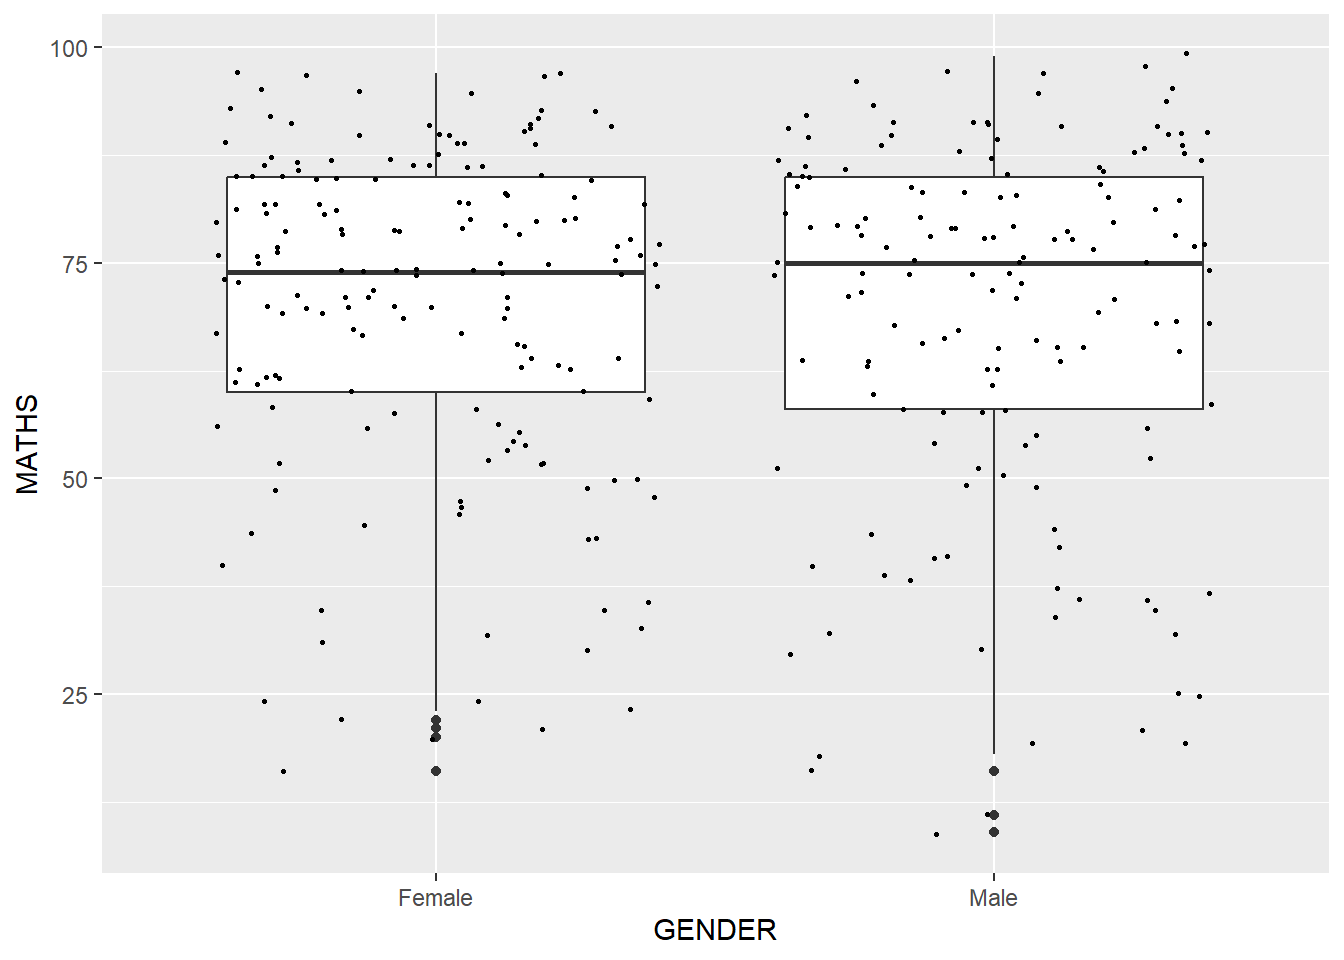
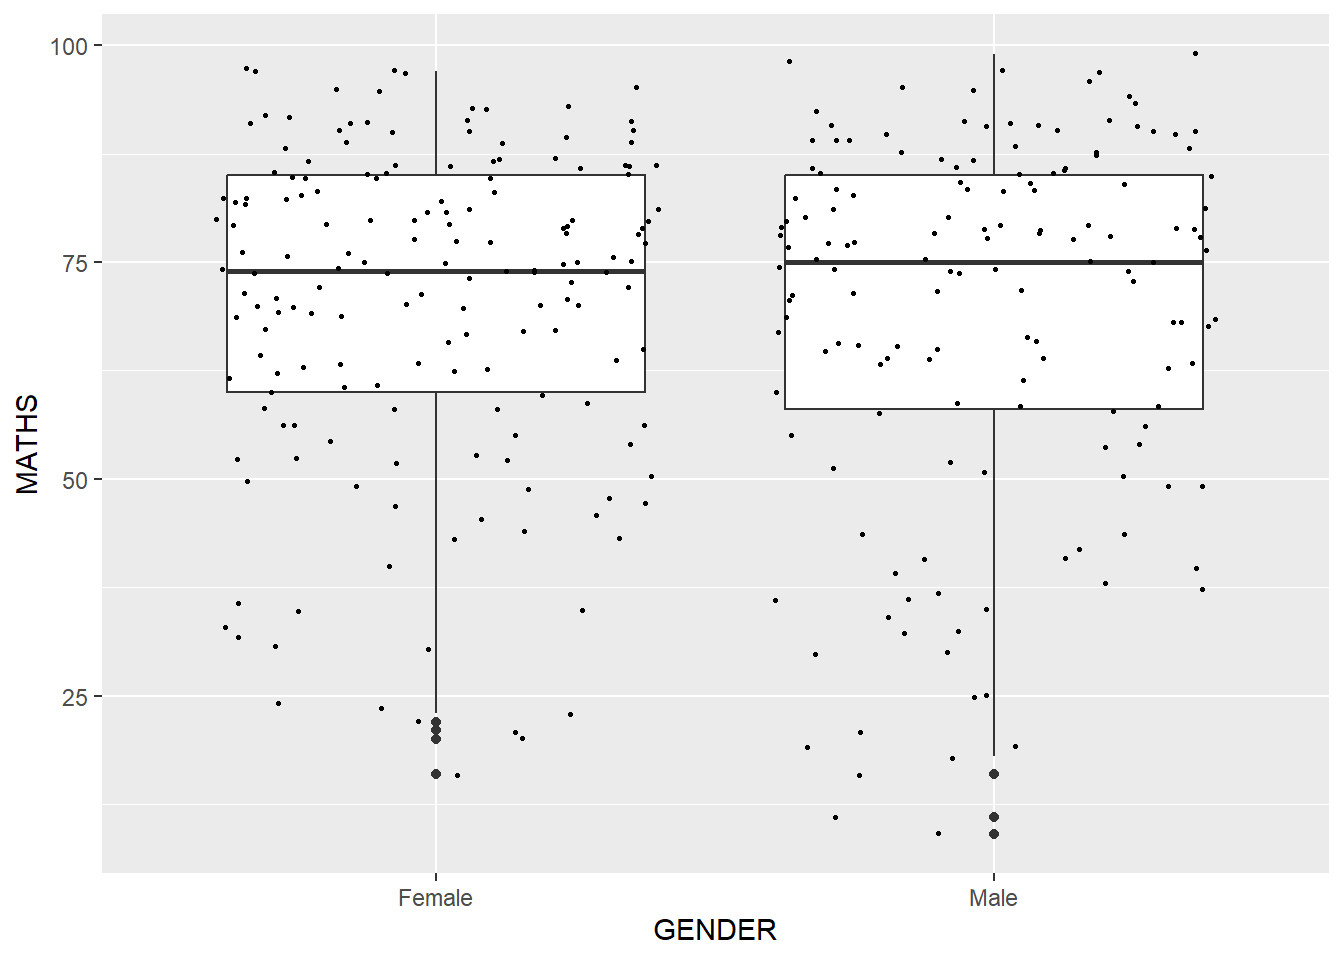
Commit 2 HO 2

diff --git a/_site/Hands-on_Ex/Hands-on_Ex02/Hands-on_Ex02.html b/_site/Hands-on_Ex/Hands-on_Ex02/Hands-on_Ex02.html
@@ -383,6 +383,100 @@ font family not found in Windows font database</code></pre>
 <span id="cb16-7"><a href="#cb16-7" aria-hidden="true" tabindex="-1"></a>  <span class="fu">coord_cartesian</span>(<span class="at">xlim=</span><span class="fu">c</span>(<span class="dv">0</span>,<span class="dv">100</span>)) <span class="sc">+</span></span>
 <span id="cb16-8"><a href="#cb16-8" aria-hidden="true" tabindex="-1"></a>  <span class="fu">ggtitle</span>(<span class="st">"Distribution of English scores"</span>)</span></code></pre></div><button title="Copy to Clipboard" class="code-copy-button"><i class="bi"></i></button></div>
 </div>
+</section>
+<section id="comparison-between-math-vs-english-scores" class="level2">
+<h2 class="anchored" data-anchor-id="comparison-between-math-vs-english-scores">Comparison between Math vs English scores</h2>
+<div class="cell">
+<div class="code-copy-outer-scaffold"><div class="sourceCode cell-code" id="cb17"><pre class="sourceCode r code-with-copy"><code class="sourceCode r"><span id="cb17-1"><a href="#cb17-1" aria-hidden="true" tabindex="-1"></a>p3 <span class="ot">&lt;-</span> <span class="fu">ggplot</span>(<span class="at">data=</span>exam_data, </span>
+<span id="cb17-2"><a href="#cb17-2" aria-hidden="true" tabindex="-1"></a>             <span class="fu">aes</span>(<span class="at">x=</span> MATHS, </span>
+<span id="cb17-3"><a href="#cb17-3" aria-hidden="true" tabindex="-1"></a>                 <span class="at">y=</span>ENGLISH)) <span class="sc">+</span></span>
+<span id="cb17-4"><a href="#cb17-4" aria-hidden="true" tabindex="-1"></a>  <span class="fu">geom_point</span>() <span class="sc">+</span></span>
+<span id="cb17-5"><a href="#cb17-5" aria-hidden="true" tabindex="-1"></a>  <span class="fu">geom_smooth</span>(<span class="at">method=</span>lm, </span>
+<span id="cb17-6"><a href="#cb17-6" aria-hidden="true" tabindex="-1"></a>              <span class="at">size=</span><span class="fl">0.5</span>) <span class="sc">+</span>  </span>
+<span id="cb17-7"><a href="#cb17-7" aria-hidden="true" tabindex="-1"></a>  <span class="fu">coord_cartesian</span>(<span class="at">xlim=</span><span class="fu">c</span>(<span class="dv">0</span>,<span class="dv">100</span>),</span>
+<span id="cb17-8"><a href="#cb17-8" aria-hidden="true" tabindex="-1"></a>                  <span class="at">ylim=</span><span class="fu">c</span>(<span class="dv">0</span>,<span class="dv">100</span>)) <span class="sc">+</span></span>
+<span id="cb17-9"><a href="#cb17-9" aria-hidden="true" tabindex="-1"></a>  <span class="fu">ggtitle</span>(<span class="st">"English scores versus Maths scores for Primary 3"</span>)</span></code></pre></div><button title="Copy to Clipboard" class="code-copy-button"><i class="bi"></i></button></div>
+</div>
+</section>
+<section id="combining-of-graphs" class="level2">
+<h2 class="anchored" data-anchor-id="combining-of-graphs">Combining of graphs</h2>
+<div class="cell">
+<div class="code-copy-outer-scaffold"><div class="sourceCode cell-code" id="cb18"><pre class="sourceCode r code-with-copy"><code class="sourceCode r"><span id="cb18-1"><a href="#cb18-1" aria-hidden="true" tabindex="-1"></a>p1 <span class="sc">+</span> p2</span></code></pre></div><button title="Copy to Clipboard" class="code-copy-button"><i class="bi"></i></button></div>
+<div class="cell-output-display">
+<div>
+<figure class="figure">
+<p><img src="Hands-on_Ex02_files/figure-html/unnamed-chunk-11-1.png" class="img-fluid figure-img" width="672"></p>
+</figure>
+</div>
+</div>
+</div>
+<div class="cell">
+<div class="code-copy-outer-scaffold"><div class="sourceCode cell-code" id="cb19"><pre class="sourceCode r code-with-copy"><code class="sourceCode r"><span id="cb19-1"><a href="#cb19-1" aria-hidden="true" tabindex="-1"></a>(p1 <span class="sc">/</span> p2) <span class="sc">|</span> p3</span></code></pre></div><button title="Copy to Clipboard" class="code-copy-button"><i class="bi"></i></button></div>
+<div class="cell-output cell-output-stderr">
+<pre><code>`geom_smooth()` using formula = 'y ~ x'</code></pre>
+</div>
+<div class="cell-output-display">
+<div>
+<figure class="figure">
+<p><img src="Hands-on_Ex02_files/figure-html/unnamed-chunk-12-1.png" class="img-fluid figure-img" width="672"></p>
+</figure>
+</div>
+</div>
+</div>
+</section>
+<section id="composite-figure-using-tag" class="level2">
+<h2 class="anchored" data-anchor-id="composite-figure-using-tag">Composite figure using tag</h2>
+<div class="cell">
+<div class="code-copy-outer-scaffold"><div class="sourceCode cell-code" id="cb21"><pre class="sourceCode r code-with-copy"><code class="sourceCode r"><span id="cb21-1"><a href="#cb21-1" aria-hidden="true" tabindex="-1"></a>((p1 <span class="sc">/</span> p2) <span class="sc">|</span> p3) <span class="sc">+</span> </span>
+<span id="cb21-2"><a href="#cb21-2" aria-hidden="true" tabindex="-1"></a>  <span class="fu">plot_annotation</span>(<span class="at">tag_levels =</span> <span class="st">'I'</span>)</span></code></pre></div><button title="Copy to Clipboard" class="code-copy-button"><i class="bi"></i></button></div>
+<div class="cell-output cell-output-stderr">
+<pre><code>`geom_smooth()` using formula = 'y ~ x'</code></pre>
+</div>
+<div class="cell-output-display">
+<div>
+<figure class="figure">
+<p><img src="Hands-on_Ex02_files/figure-html/unnamed-chunk-13-1.png" class="img-fluid figure-img" width="672"></p>
+</figure>
+</div>
+</div>
+</div>
+</section>
+<section id="composite-figure-using-insert" class="level2">
+<h2 class="anchored" data-anchor-id="composite-figure-using-insert">Composite figure using insert</h2>
+<div class="cell">
+<div class="code-copy-outer-scaffold"><div class="sourceCode cell-code" id="cb23"><pre class="sourceCode r code-with-copy"><code class="sourceCode r"><span id="cb23-1"><a href="#cb23-1" aria-hidden="true" tabindex="-1"></a>p3 <span class="sc">+</span> <span class="fu">inset_element</span>(p2, </span>
+<span id="cb23-2"><a href="#cb23-2" aria-hidden="true" tabindex="-1"></a>                   <span class="at">left =</span> <span class="fl">0.02</span>, </span>
+<span id="cb23-3"><a href="#cb23-3" aria-hidden="true" tabindex="-1"></a>                   <span class="at">bottom =</span> <span class="fl">0.7</span>, </span>
+<span id="cb23-4"><a href="#cb23-4" aria-hidden="true" tabindex="-1"></a>                   <span class="at">right =</span> <span class="fl">0.5</span>, </span>
+<span id="cb23-5"><a href="#cb23-5" aria-hidden="true" tabindex="-1"></a>                   <span class="at">top =</span> <span class="dv">1</span>)</span></code></pre></div><button title="Copy to Clipboard" class="code-copy-button"><i class="bi"></i></button></div>
+<div class="cell-output cell-output-stderr">
+<pre><code>`geom_smooth()` using formula = 'y ~ x'</code></pre>
+</div>
+<div class="cell-output-display">
+<div>
+<figure class="figure">
+<p><img src="Hands-on_Ex02_files/figure-html/unnamed-chunk-14-1.png" class="img-fluid figure-img" width="672"></p>
+</figure>
+</div>
+</div>
+</div>
+</section>
+<section id="composite-figure-using-patchwork-and-ggtheme" class="level2">
+<h2 class="anchored" data-anchor-id="composite-figure-using-patchwork-and-ggtheme">Composite figure using patchwork and ggtheme</h2>
+<div class="cell">
+<div class="code-copy-outer-scaffold"><div class="sourceCode cell-code" id="cb25"><pre class="sourceCode r code-with-copy"><code class="sourceCode r"><span id="cb25-1"><a href="#cb25-1" aria-hidden="true" tabindex="-1"></a>patchwork <span class="ot">&lt;-</span> (p1 <span class="sc">/</span> p2) <span class="sc">|</span> p3</span>
+<span id="cb25-2"><a href="#cb25-2" aria-hidden="true" tabindex="-1"></a>patchwork <span class="sc">&amp;</span> <span class="fu">theme_economist</span>()</span></code></pre></div><button title="Copy to Clipboard" class="code-copy-button"><i class="bi"></i></button></div>
+<div class="cell-output cell-output-stderr">
+<pre><code>`geom_smooth()` using formula = 'y ~ x'</code></pre>
+</div>
+<div class="cell-output-display">
+<div>
+<figure class="figure">
+<p><img src="Hands-on_Ex02_files/figure-html/unnamed-chunk-15-1.png" class="img-fluid figure-img" width="672"></p>
+</figure>
+</div>
+</div>
+</div>
 
 
 </section>

diff --git a/_site/Hands-on_Ex/Hands-on_Ex01/Hands-on_Ex01.html b/_site/Hands-on_Ex/Hands-on_Ex01/Hands-on_Ex01.html
@@ -8,7 +8,7 @@
 
 <meta name="author" content="Alvin Matthew">
 
-<title>Hands-on Exercise 1 – ISSS608-VAA</title>
+<title>Hands-on Exercise 1 – ISSS608-Visual Analytics &amp; Applications</title>
 <style>
 /* Default styles provided by pandoc.
 ** See https://pandoc.org/MANUAL.html#variables-for-html for config info.
@@ -118,7 +118,7 @@ pre > code.sourceCode > span > a:first-child::before { text-decoration: underlin
       <div class="navbar-container container-fluid">
       <div class="navbar-brand-container mx-auto">
     <a class="navbar-brand" href="../../index.html">
-    <span class="navbar-title">ISSS608-VAA</span>
+    <span class="navbar-title">ISSS608-Visual Analytics &amp; Applications</span>
     </a>
   </div>
             <div id="quarto-search" class="" title="Search"></div>
@@ -135,6 +135,10 @@ pre > code.sourceCode > span > a:first-child::before { text-decoration: underlin
         <li>
     <a class="dropdown-item" href="../../Hands-on_Ex/Hands-on_Ex01/Hands-on_Ex01.html">
  <span class="dropdown-text">Hands-on Exercise 1</span></a>
+  </li>  
+        <li>
+    <a class="dropdown-item" href="../../Hands-on_Ex/Hands-on_Ex01/Hands-on_Ex02.html">
+ <span class="dropdown-text">Hands-on Exercise 2</span></a>
   </li>  
     </ul>
   </li>

diff --git a/_site/about.html b/_site/about.html
@@ -7,7 +7,7 @@
 <meta name="viewport" content="width=device-width, initial-scale=1.0, user-scalable=yes">
 
 
-<title>About – ISSS608-VAA</title>
+<title>About – ISSS608-Visual Analytics &amp; Applications</title>
 <style>
 /* Default styles provided by pandoc.
 ** See https://pandoc.org/MANUAL.html#variables-for-html for config info.
@@ -117,7 +117,7 @@ pre > code.sourceCode > span > a:first-child::before { text-decoration: underlin
       <div class="navbar-container container-fluid">
       <div class="navbar-brand-container mx-auto">
     <a class="navbar-brand" href="./index.html">
-    <span class="navbar-title">ISSS608-VAA</span>
+    <span class="navbar-title">ISSS608-Visual Analytics &amp; Applications</span>
     </a>
   </div>
             <div id="quarto-search" class="" title="Search"></div>
@@ -134,6 +134,10 @@ pre > code.sourceCode > span > a:first-child::before { text-decoration: underlin
         <li>
     <a class="dropdown-item" href="./Hands-on_Ex/Hands-on_Ex01/Hands-on_Ex01.html">
  <span class="dropdown-text">Hands-on Exercise 1</span></a>
+  </li>  
+        <li>
+    <a class="dropdown-item" href="./Hands-on_Ex/Hands-on_Ex01/Hands-on_Ex02.html">
+ <span class="dropdown-text">Hands-on Exercise 2</span></a>
   </li>  
     </ul>
   </li>

diff --git a/_site/index.html b/_site/index.html
@@ -101,7 +101,7 @@ ul.task-list li input[type="checkbox"] {
  <span class="dropdown-text">Hands-on Exercise 1</span></a>
   </li>  
         <li>
-    <a class="dropdown-item" href="./Hands-on_Ex/Hands-on_Ex01/Hands-on_Ex02.html">
+    <a class="dropdown-item" href="./Hands-on_Ex/Hands-on_Ex02/Hands-on_Ex02.html">
  <span class="dropdown-text">Hands-on Exercise 2</span></a>
   </li>  
     </ul>